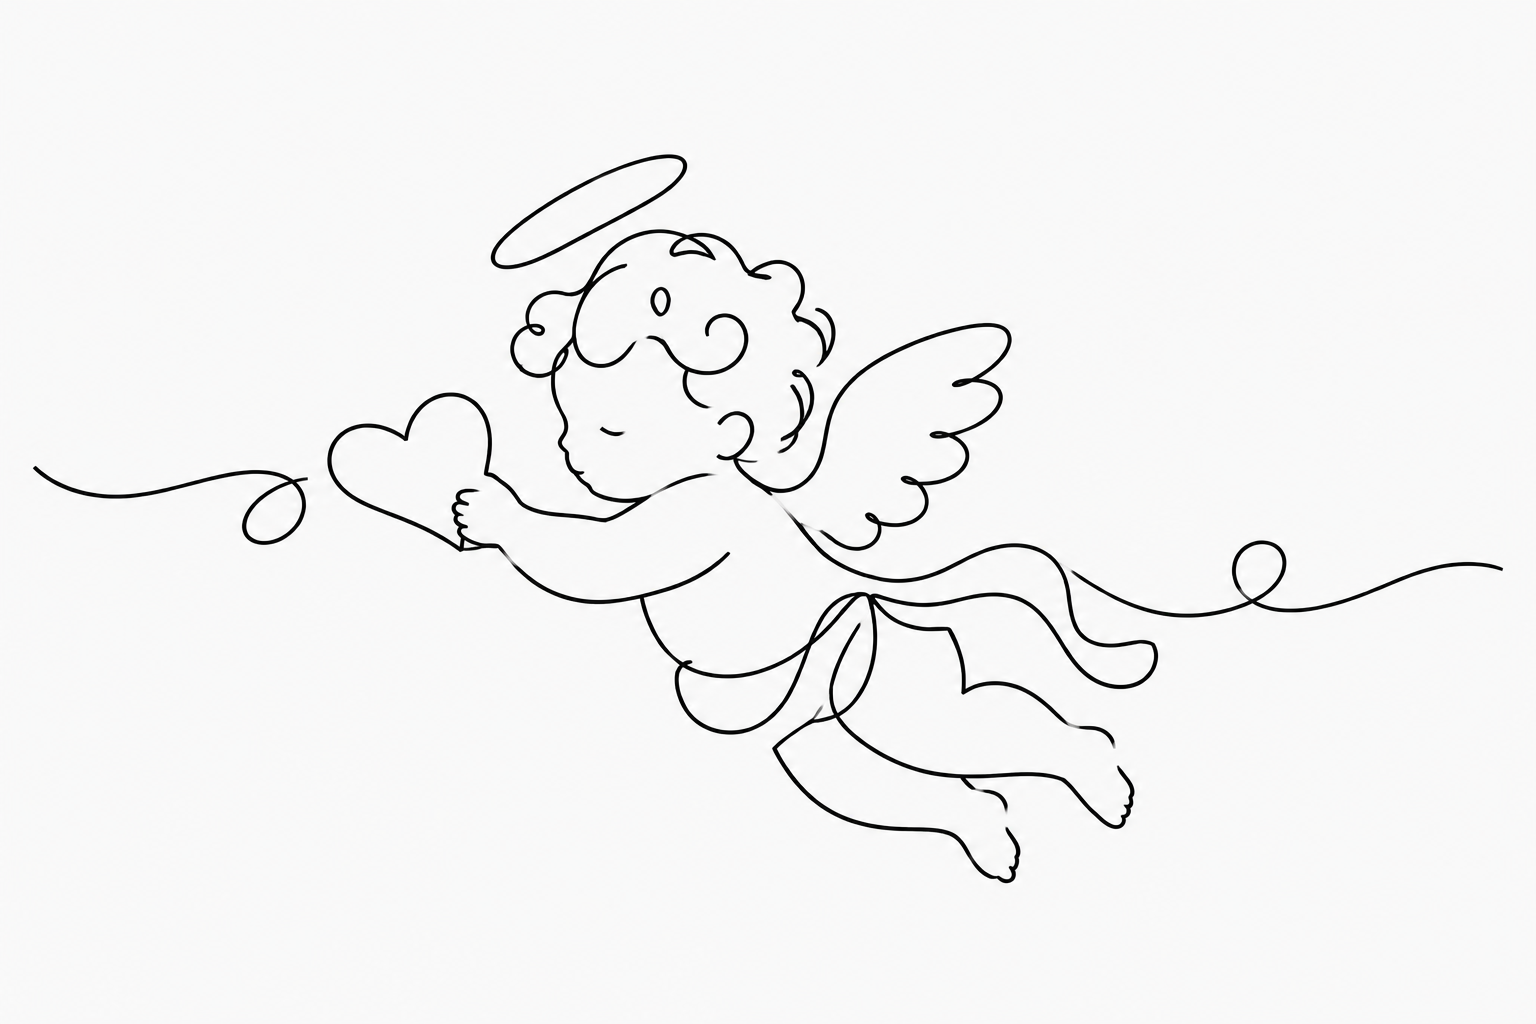
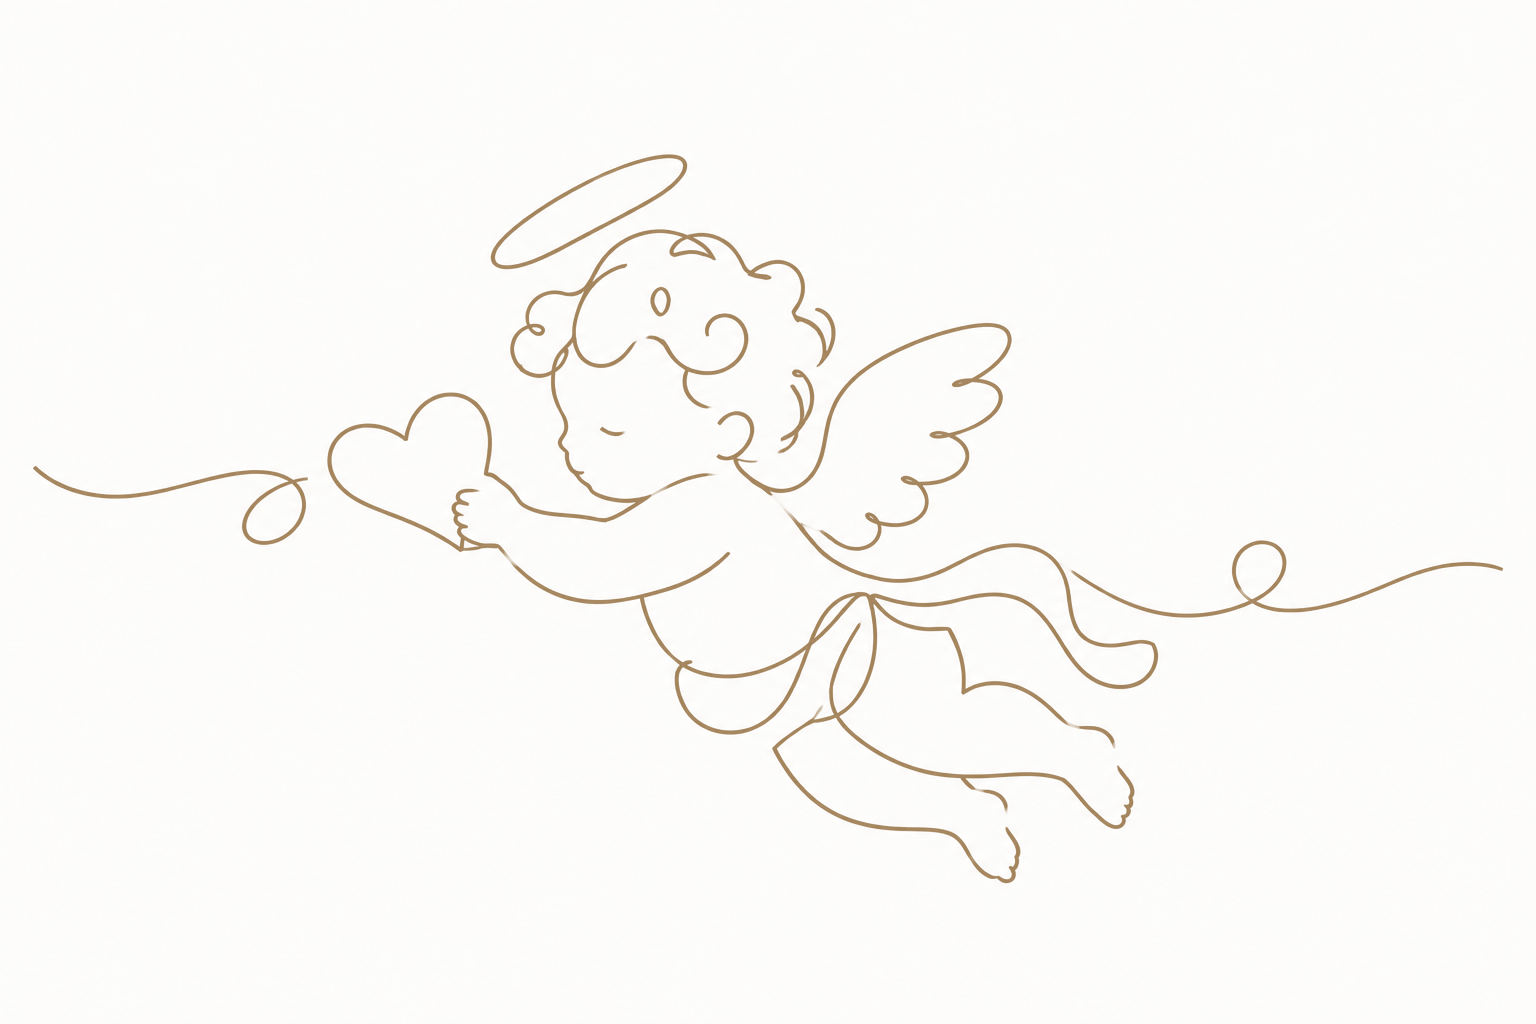
Fix confetti not firing, add gold recolor and crossing layout for illustrations (v3)
Sync v3 branch fixes into the GitHub Pages v3 mirror: confetti-layer
DOM-order bug, reveal() threshold check on mousedown, gold-recolored
illustrations positioned as crossing pairs, and the previously-unused
sprig/peony/rose/couple-dance illustrations.

diff --git a/v3/index.html b/v3/index.html
@@ -212,30 +212,39 @@
   .bg-illus{
     position: absolute;
     z-index: -1;
-    opacity: 0.1;
-    mix-blend-mode: multiply;
+    opacity: 0.4;
     pointer-events: none;
     user-select: none;
   }
   .section-divider{
-    max-width: 300px;
-    margin: 0 auto;
-    opacity: 0.14;
-    mix-blend-mode: multiply;
+    max-width: 260px;
+    margin: 0 auto 0 8%;
+    opacity: 0.55;
   }
   .section-divider img{ width: 100%; display: block; }
-  .hero .bg-illus{
-    top: 4px;
-    left: 50%;
-    transform: translateX(-50%);
-    width: 260px;
-    max-width: 58vw;
+  .hero .bg-illus.is-left{
+    top: 10px;
+    left: -10px;
+    width: 210px;
+    max-width: 50vw;
   }
-  .family .bg-illus{
-    right: -10px;
-    bottom: -10px;
-    width: 220px;
-    max-width: 46vw;
+  .hero .bg-illus.is-right{
+    top: 40px;
+    right: -20px;
+    width: 150px;
+    max-width: 38vw;
+  }
+  .family .bg-illus.is-right{
+    right: -20px;
+    bottom: 0;
+    width: 150px;
+    max-width: 34vw;
+  }
+  .family .bg-illus.is-left{
+    left: -10px;
+    top: 30px;
+    width: 160px;
+    max-width: 40vw;
   }
   .venue .bg-illus{
     top: -20px;
@@ -243,27 +252,39 @@
     transform: translateX(-50%);
     width: 480px;
     max-width: 90vw;
+    opacity: 0.22;
   }
-  .schedule .bg-illus{
-    left: 50%;
-    bottom: 10px;
-    transform: translateX(-50%);
-    width: 360px;
-    max-width: 80vw;
+  .schedule .bg-illus.is-right{
+    right: -10px;
+    bottom: 4px;
+    width: 200px;
+    max-width: 46vw;
+  }
+  .schedule .bg-illus.is-left{
+    left: -20px;
+    top: 20px;
+    width: 190px;
+    max-width: 44vw;
+    opacity: 0.25;
   }
   .rsvp .bg-illus{
     top: 0;
-    left: 50%;
-    transform: translateX(-50%);
-    width: 300px;
-    max-width: 70vw;
-  }
-  footer .bg-illus{
-    top: -16px;
-    left: 50%;
-    transform: translateX(-50%);
-    width: 200px;
+    left: -10px;
+    width: 230px;
     max-width: 55vw;
+  }
+  footer .bg-illus.is-right{
+    top: 4px;
+    right: 12px;
+    width: 150px;
+    max-width: 36vw;
+    opacity: 0.5;
+  }
+  footer .bg-illus.is-left{
+    top: 30px;
+    left: 8px;
+    width: 150px;
+    max-width: 38vw;
   }
 
   /* ---------- HERO ---------- */
@@ -890,7 +911,8 @@
   </div>
 
   <section class="hero">
-    <img class="bg-illus" src="images/illus-doves-heart.png" alt="" aria-hidden="true">
+    <img class="bg-illus is-left" src="images/illus-doves-heart.png" alt="" aria-hidden="true">
+    <img class="bg-illus is-right" src="images/illus-sprig.png" alt="" aria-hidden="true">
     <div class="frame reveal" id="hero-frame">
       <img src="images/hero.jpg" alt="薛舜中 與 陳永馨">
     </div>
@@ -933,7 +955,8 @@
       </div>
     </div>
     <img class="family-photo reveal" src="images/m-studio-dance.jpg" alt="新人合影">
-    <img class="bg-illus" src="images/illus-bouquet.png" alt="" aria-hidden="true">
+    <img class="bg-illus is-right" src="images/illus-bouquet.png" alt="" aria-hidden="true">
+    <img class="bg-illus is-left" src="images/illus-peony-stem.png" alt="" aria-hidden="true">
   </section>
 
   <div class="section-divider"><img src="images/illus-heart-vine-divider.png" alt="" aria-hidden="true"></div>
@@ -987,7 +1010,8 @@
       <a id="cal-google" class="cal-btn" target="_blank" rel="noopener">+ Google 日曆</a>
       <a id="cal-ics" class="cal-btn">+ Apple / Outlook</a>
     </div>
-    <img class="bg-illus" src="images/illus-champagne-tower.png" alt="" aria-hidden="true">
+    <img class="bg-illus is-right" src="images/illus-champagne-tower.png" alt="" aria-hidden="true">
+    <img class="bg-illus is-left" src="images/illus-couple-dance.png" alt="" aria-hidden="true">
   </section>
 
   <section class="rsvp">
@@ -1026,12 +1050,15 @@
   </dialog>
 
   <footer>
-    <img class="bg-illus" src="images/illus-cherub.png" alt="" aria-hidden="true">
+    <img class="bg-illus is-right" src="images/illus-cherub.png" alt="" aria-hidden="true">
+    <img class="bg-illus is-left" src="images/illus-rose.png" alt="" aria-hidden="true">
     <img src="images/m-rings.jpg" alt="戒指">
     <p class="thanks">感謝您撥冗參與，見證我們人生中最重要的時刻</p>
     <p class="names">薛舜中　＆　陳永馨</p>
     <p class="credit">Designed by <a href="https://ux-circles.com/web" target="_blank" rel="noopener">UX CIRCLES</a></p>
   </footer>
+
+  <div class="confetti-layer" id="confetti-layer"></div>
 
 <script src="https://unpkg.com/leaflet@1.9.4/dist/leaflet.js"></script>
 <script>
@@ -1524,6 +1551,5 @@
     });
   })();
 </script>
-<div class="confetti-layer" id="confetti-layer"></div>
 </body>
 </html>
